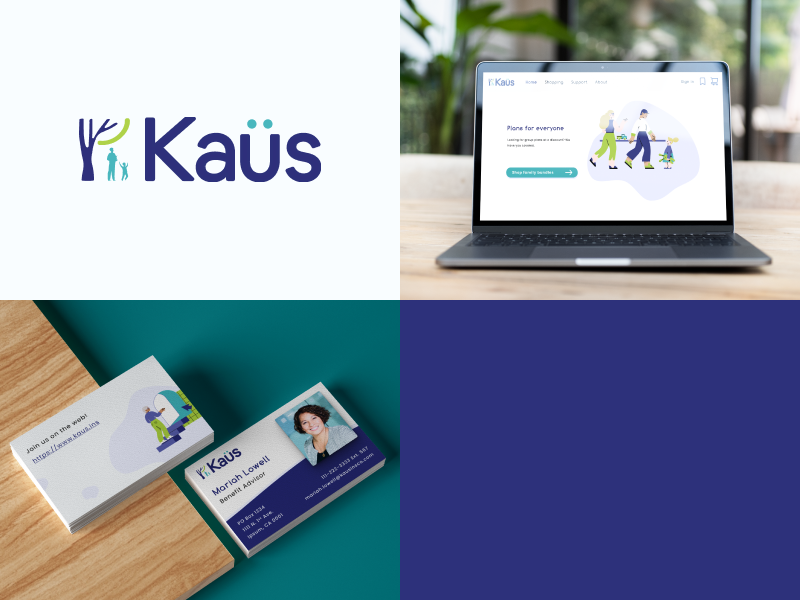
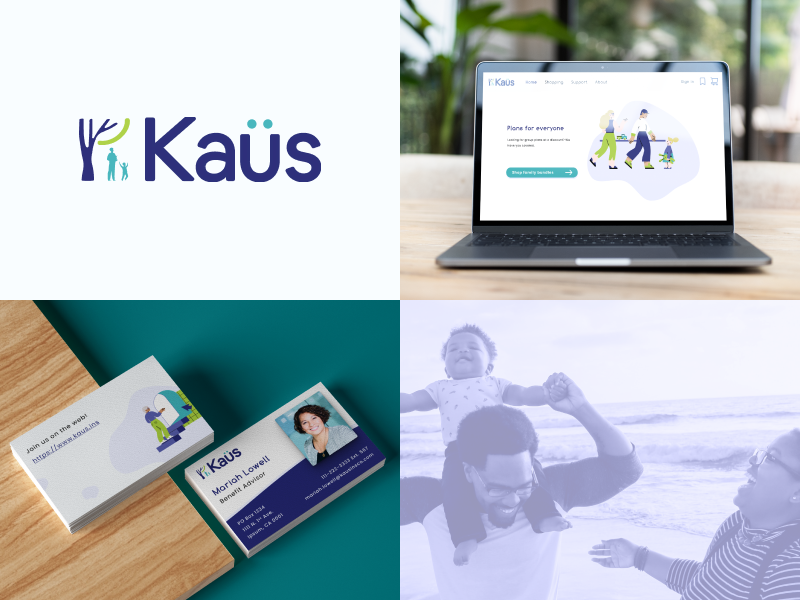
Added images to Kaus case study and fixed minor bugs

Changed region(s): [[0.5, 0.48, 1.0, 1.0]]

diff --git a/src/pages/case-studies/kaus.jsx b/src/pages/case-studies/kaus.jsx
@@ -10,7 +10,11 @@ import ServicesArea from "../../containers/service/layout-cs";
 import logoImage from "../../data/images/logo/logo.png";
 import data from "../../data/homepages/case-study-kaus.json";
 import CaseStudySection from "../../layouts/CaseStudy/CaseStudiesSection";
-import kausIntroImage from "../../data/images/portfolio/kaus-thumbnail.png";
+import kausIntroImage from "../../data/images/portfolio/kaus-mac.png";
+import kausUserPersonas from "../../data/images/portfolio/kaus-user-personas.png";
+import kausFlow from "../../data/images/portfolio/kaus-flow.png";
+import kausUserTest from "../../data/images/portfolio/kaus-user-test.png";
+import kausFamily from "../../data/images/portfolio/kaus-family.png";
 
 const CaseStudyKaus = () => {
     const content = normalizedData(data?.content || []);
@@ -119,7 +123,7 @@ const CaseStudyKaus = () => {
                             </>
                         }
                         images={{
-                            src: kausIntroImage,
+                            src: kausUserPersonas,
                             alt: "Kaus Insurance Co. branding",
                         }}
                     />
@@ -152,7 +156,7 @@ const CaseStudyKaus = () => {
                             </>
                         }
                         images={{
-                            src: kausIntroImage,
+                            src: kausFlow,
                             alt: "Kaus Insurance Co. branding",
                         }}
                     />
@@ -195,7 +199,7 @@ const CaseStudyKaus = () => {
                             </>
                         }
                         images={{
-                            src: kausIntroImage,
+                            src: kausUserTest,
                             alt: "Kaus Insurance Co. branding",
                         }}
                     />
@@ -227,7 +231,7 @@ const CaseStudyKaus = () => {
                             </>
                         }
                         images={{
-                            src: kausIntroImage,
+                            src: kausFamily,
                             alt: "Kaus Insurance Co. branding",
                         }}
                     />

diff --git a/src/assets/scss/elements/_banner.scss b/src/assets/scss/elements/_banner.scss
@@ -1066,38 +1066,6 @@
             width: 320px;
             border: 5px solid #32363b;
         }
-        &.gradient-border {
-            img {
-                border: none;
-                background-size: 400% 400%;
-                background: linear-gradient(
-                    -45deg,
-                    #ee7752,
-                    #e73c7e,
-                    #23a6d5,
-                    #23d5ab
-                );
-            }
-        }
-        &.gradient-animation {
-            img {
-                animation: gradient 3s ease infinite;
-
-                @keyframes gradient {
-                    0% {
-                        background-position: 0% 50%;
-                    }
-
-                    50% {
-                        background-position: 100% 50%;
-                    }
-
-                    100% {
-                        background-position: 0% 50%;
-                    }
-                }
-            }
-        }
     }
     h1 {
         font-size: 48px;
@@ -1214,38 +1182,6 @@
     color: white;
     font-family: "Raleway";
     font-size: 2.5rem;
-}
-
-.gradient-border {
-    --borderWidth: 3px;
-    background: transparent;
-    position: relative;
-    border-radius: (50%);
-}
-
-.gradient-border:after {
-    content: "";
-    position: absolute;
-    top: 50%;
-    left: 50%;
-    height: 100%;
-    width: 100%;
-    background: linear-gradient(
-        60deg,
-        #f79533,
-        #f37055,
-        #ef4e7b,
-        #a166ab,
-        #5073b8,
-        #1098ad,
-        #07b39b,
-        #6fba82
-    );
-    border-radius: 50%;
-    z-index: -1;
-    animation: animatedgradient 2s ease alternate infinite;
-    background-size: 300% 300%;
-    transform: translate(-50%, -50%);
 }
 
 @keyframes animatedgradient {

diff --git a/src/containers/hero/layout-03-white/index.jsx b/src/containers/hero/layout-03-white/index.jsx
@@ -136,15 +136,13 @@ const HeroArea = ({ data, id }) => {
                     <div className="col-lg-12">
                         <div className="banner-inner">
                             {data?.images?.[0]?.src && (
-                                <div className="thumbnail gradient-border gradient-animation">
+                                <div className="thumbnail">
                                     <Image
                                         src={data.images[0].src}
                                         alt={
                                             data.images[0]?.alt ||
                                             "Al-Amin Bali"
                                         }
-                                        id="border"
-                                        className="gradient-border"
                                     />
                                 </div>
                             )}

diff --git a/src/containers/hero/layout-03/index.jsx b/src/containers/hero/layout-03/index.jsx
@@ -136,15 +136,13 @@ const HeroArea = ({ data, id }) => {
                     <div className="col-lg-12">
                         <div className="banner-inner">
                             {data?.images?.[0]?.src && (
-                                <div className="thumbnail gradient-border gradient-animation">
+                                <div className="thumbnail">
                                     <Image
                                         src={data.images[0].src}
                                         alt={
                                             data.images[0]?.alt ||
                                             "Al-Amin Bali"
                                         }
-                                        id="border"
-                                        className="gradient-border"
                                     />
                                 </div>
                             )}

diff --git a/src/containers/hero/layout-cs/index.jsx b/src/containers/hero/layout-cs/index.jsx
@@ -136,7 +136,7 @@ const HeroArea = ({ data, id }) => {
 
                         <div className="order-1 order-lg-2 col-lg-5">
                             {data?.images?.[0]?.src && (
-                                <div className="thumbnail gradient-border gradient-animation">
+                                <div className="thumbnail">
                                     <Image
                                         src={kausIntroImage}
                                         alt={data.images[0]?.alt || "Hero"}

diff --git a/src/layouts/CaseStudy/CaseStudiesSection.jsx b/src/layouts/CaseStudy/CaseStudiesSection.jsx
@@ -130,7 +130,7 @@ const HeroArea = ({
 
                         <div className="order-1 order-lg-2 col-lg-5">
                             {images?.src && (
-                                <div className="thumbnail gradient-border gradient-animation">
+                                <div>
                                     <Image
                                         src={images.src}
                                         alt={images.alt || "Hero"}

diff --git a/src/assets/scss/elements/banner.scss b/src/assets/scss/elements/banner.scss
@@ -196,6 +196,7 @@
             }
         }
     }
+
     .thumbnail {
         position: relative;
         z-index: 2;
